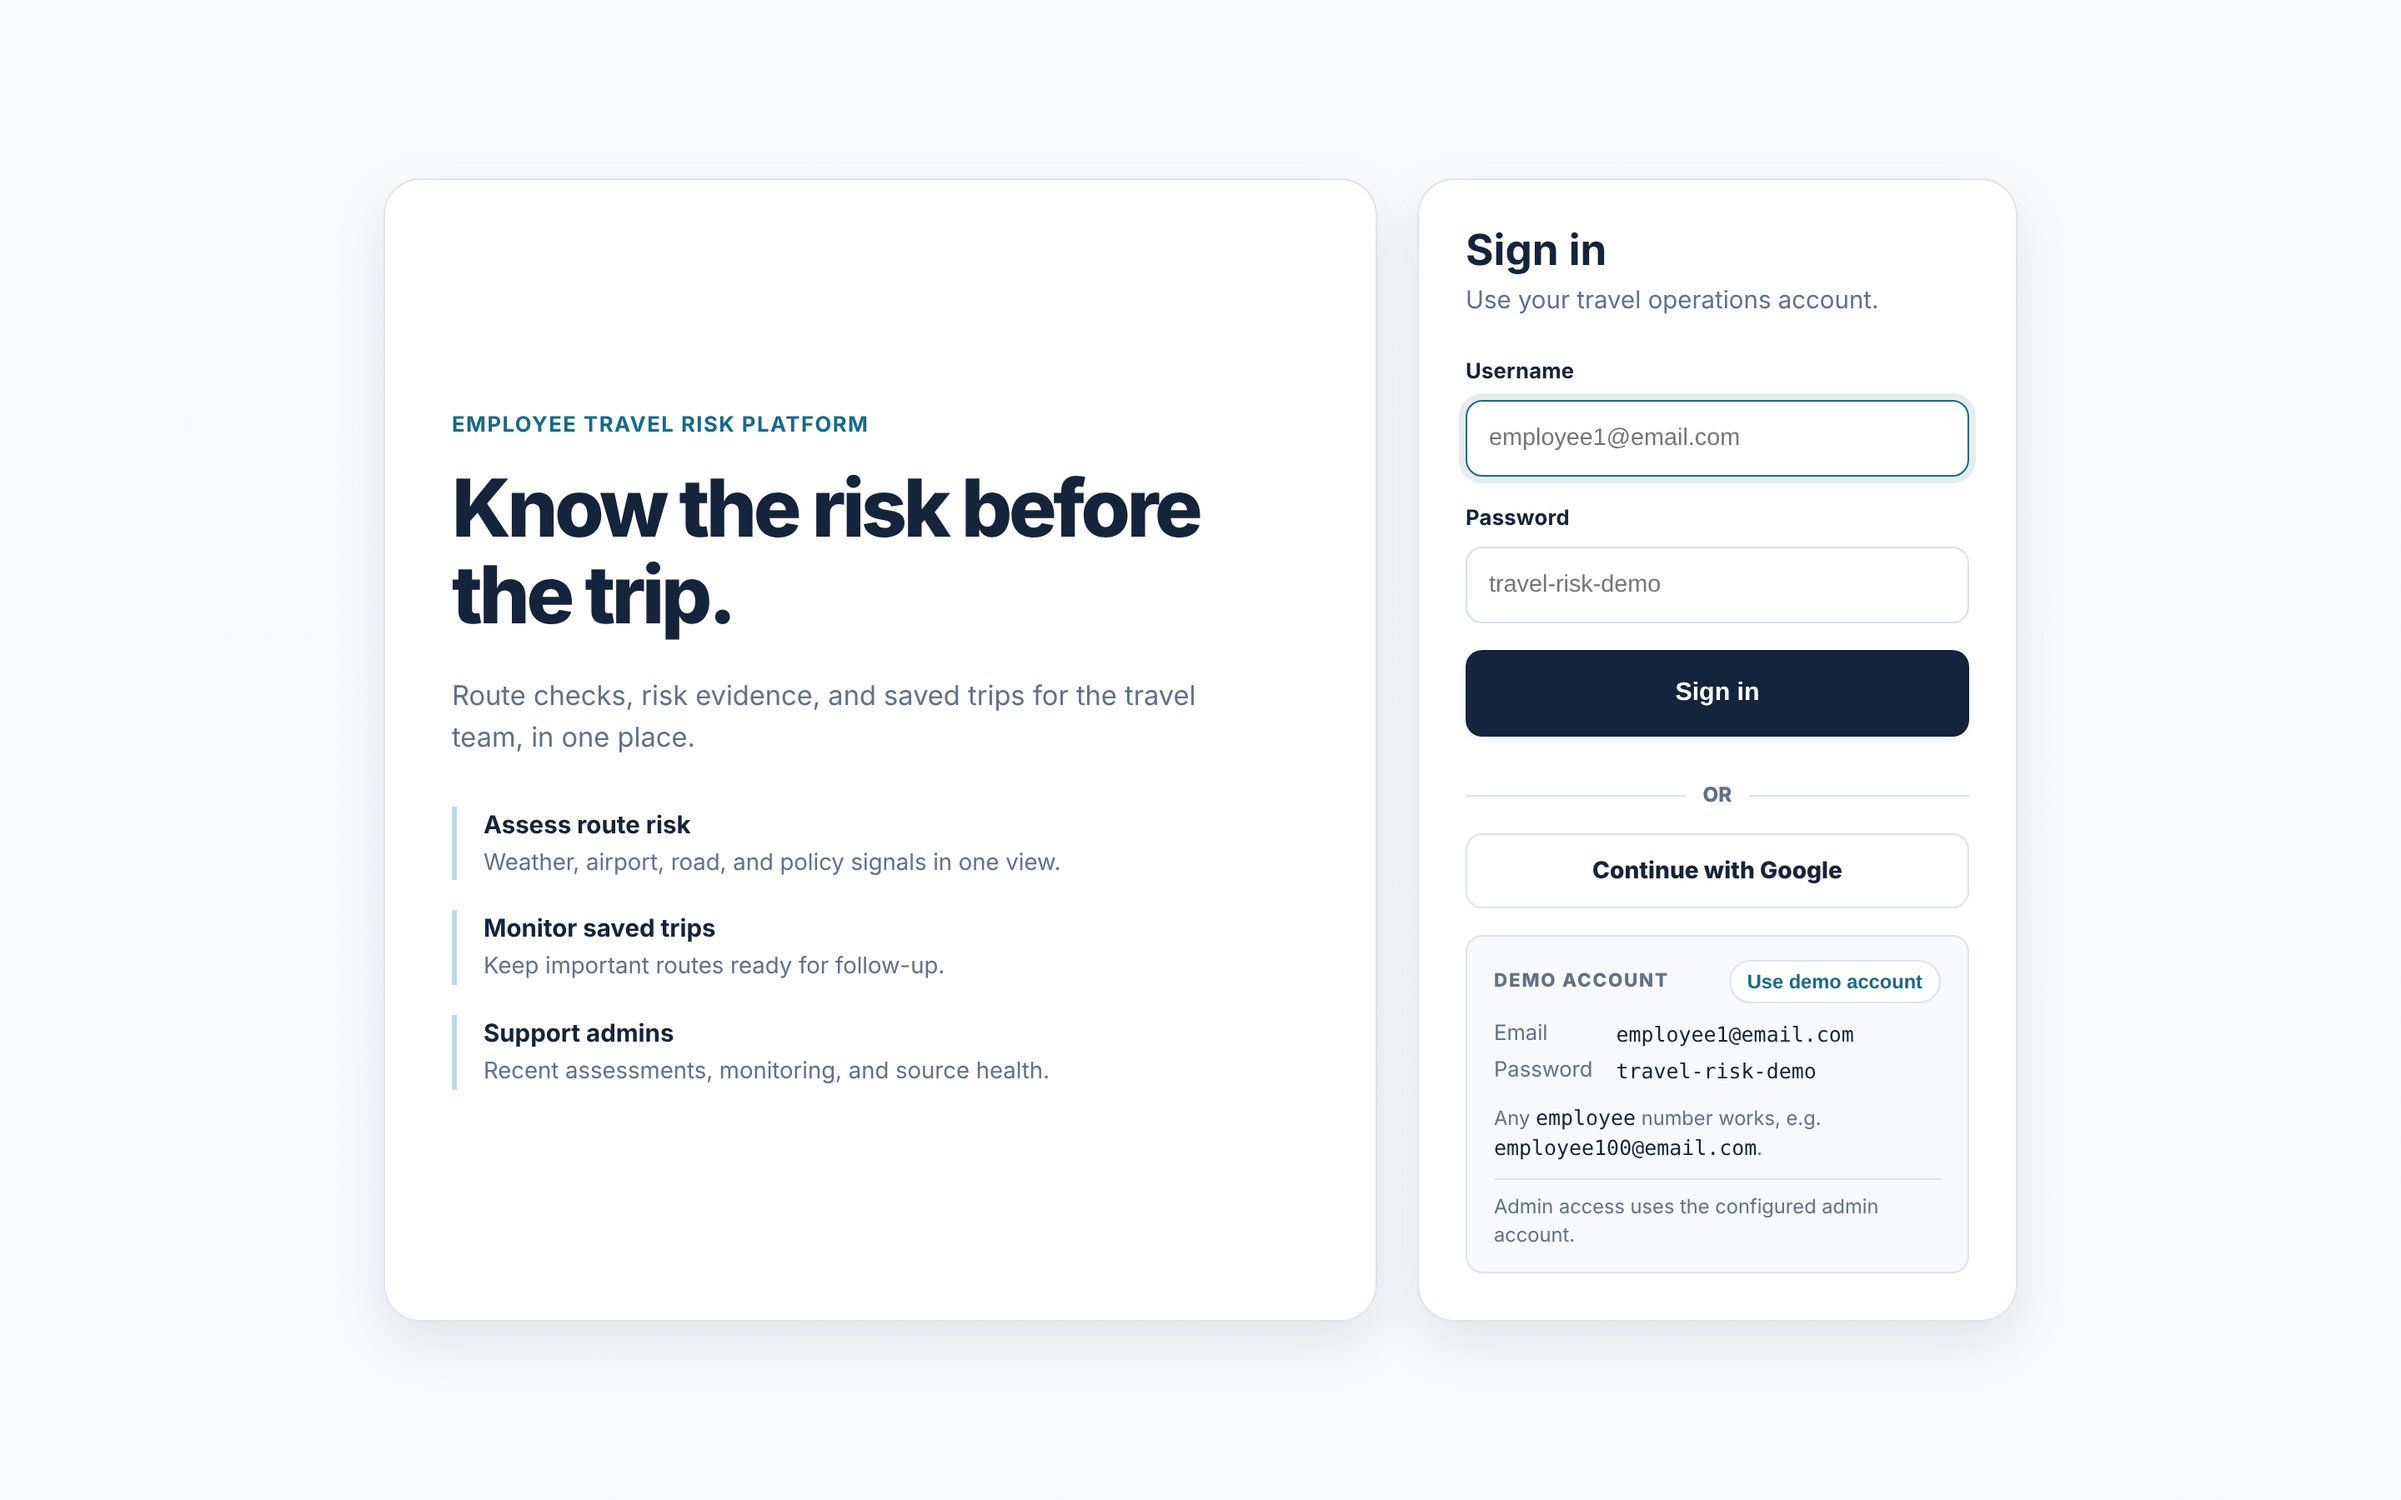
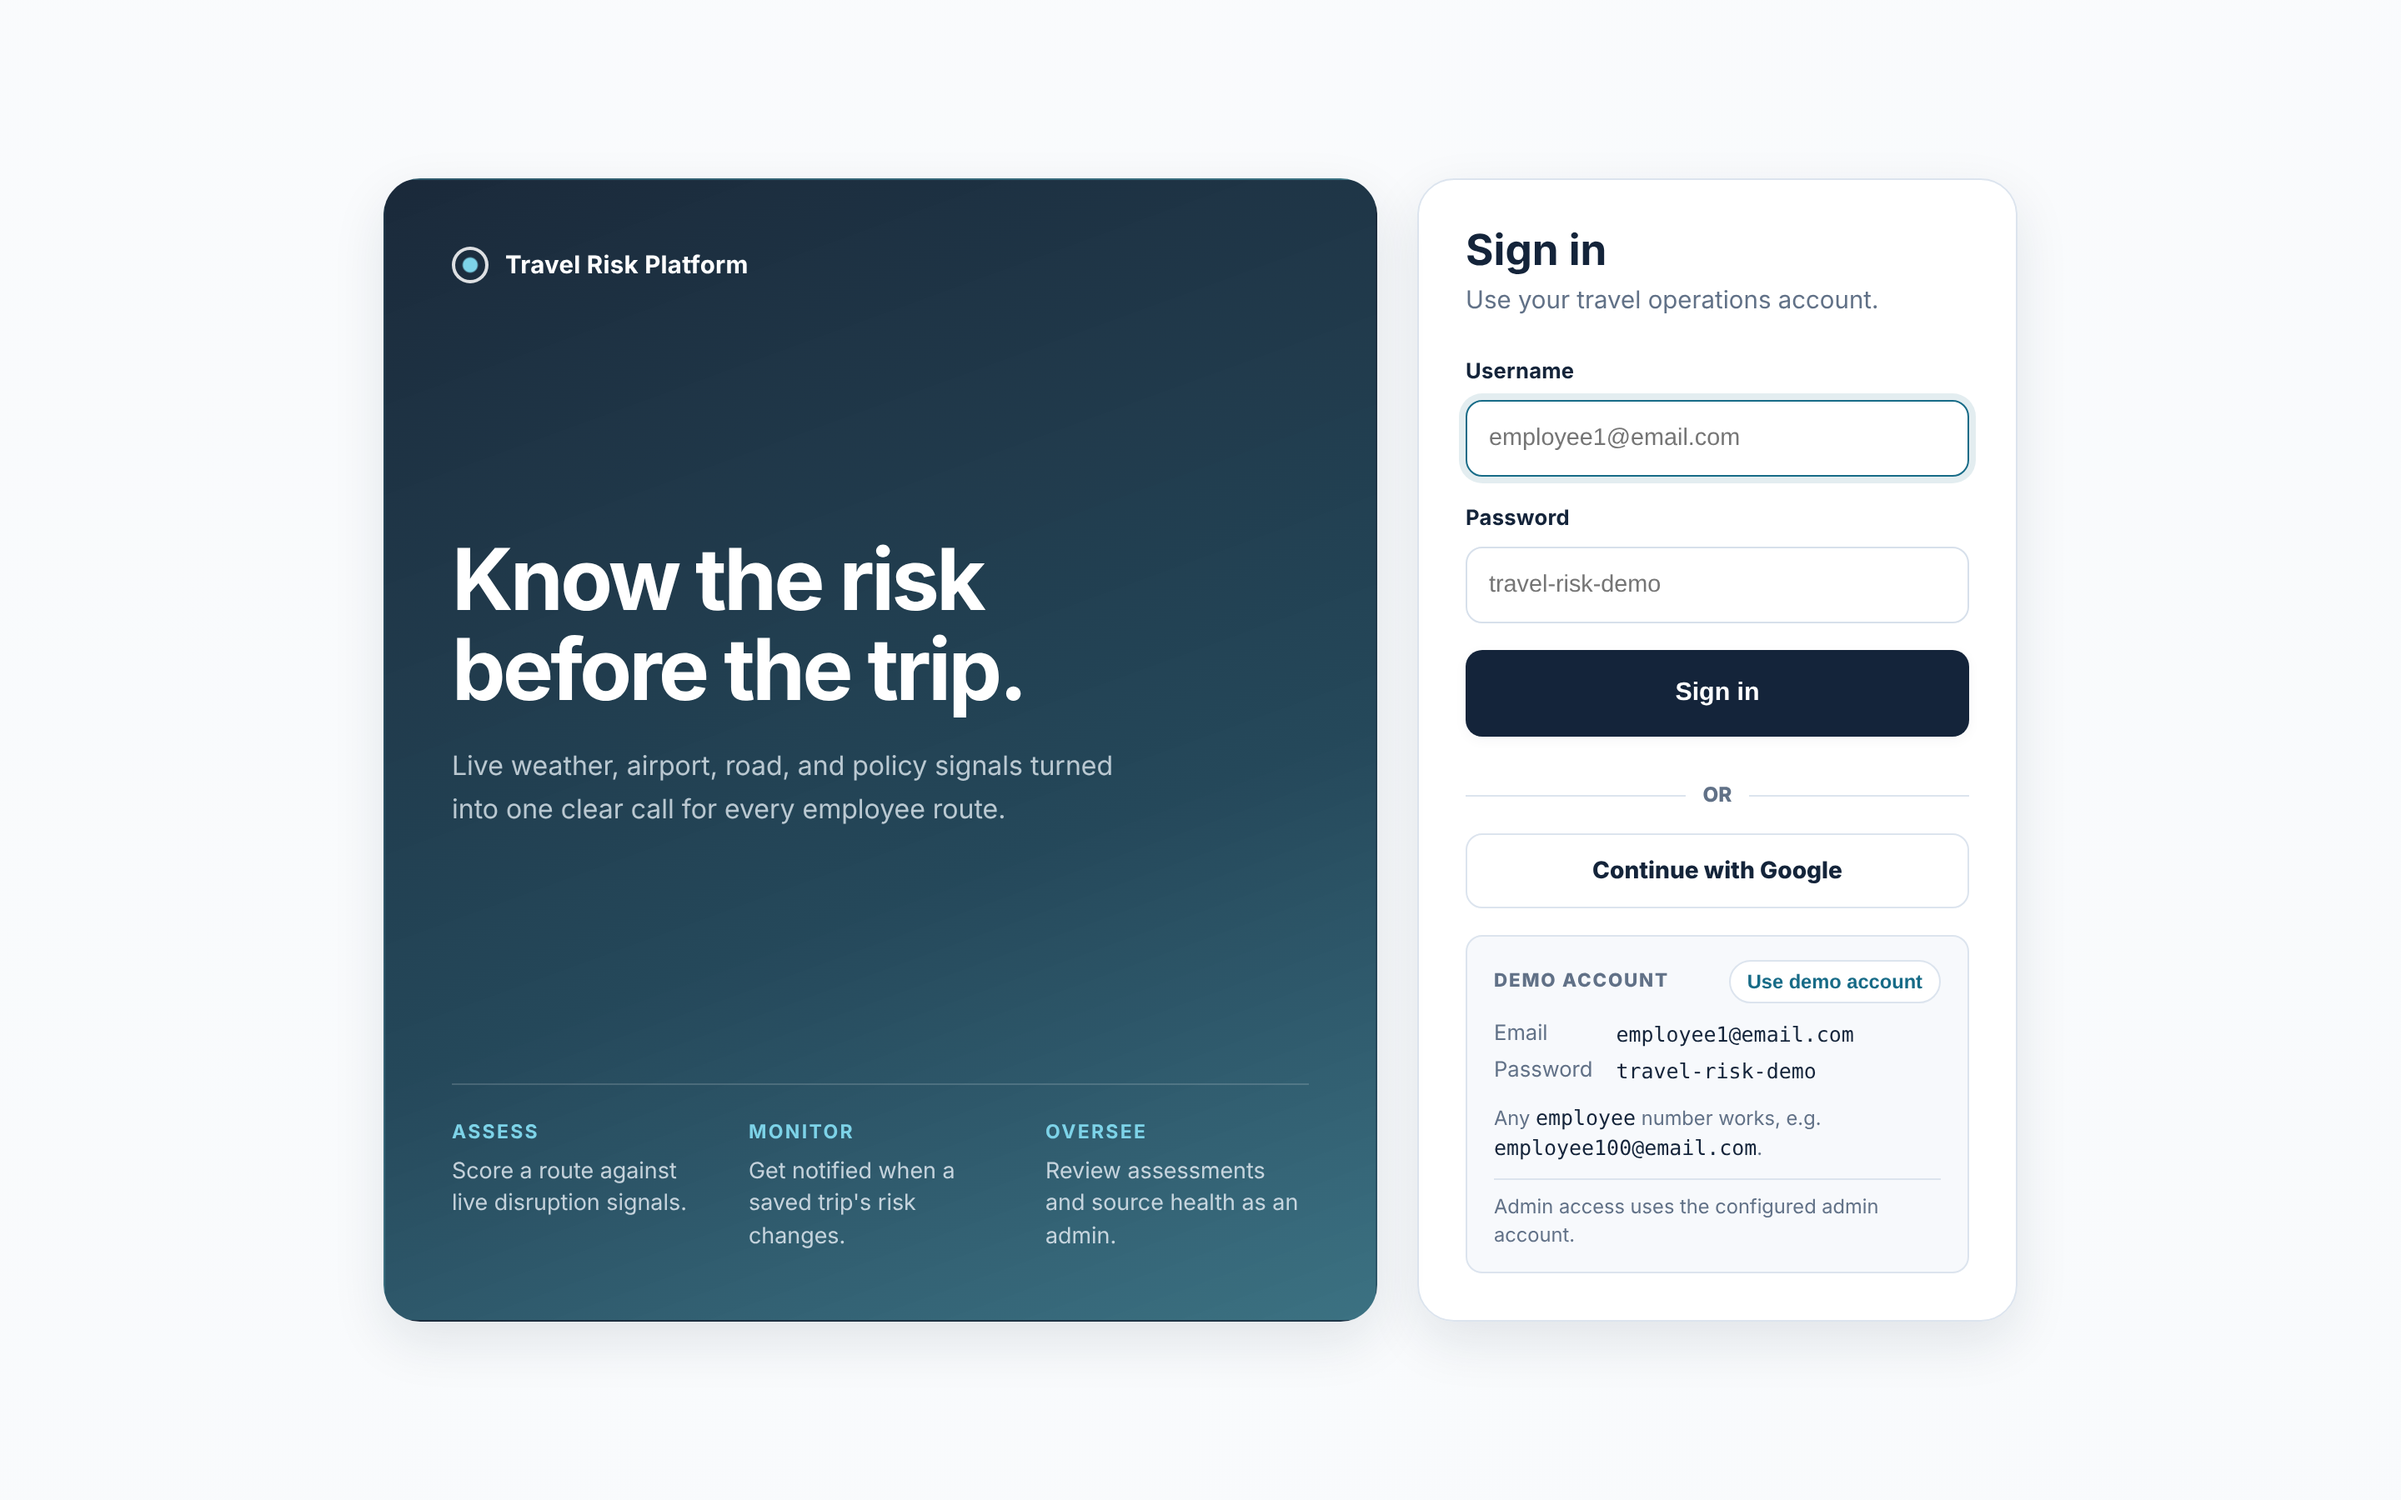
Give the login intro card a darker, more polished look
Navy gradient panel with a brand mark, a white headline, a short
lede, and a three-column feature row along the bottom. Refresh the
README login screenshot.

Claude-Session: https://claude.ai/code/session_01SVyUdMpNFU9eprA4gDo3ue

diff --git a/src/main/resources/static/styles.css b/src/main/resources/static/styles.css
@@ -109,41 +109,66 @@ body {
 }
 
 .login-hero {
+    position: relative;
     display: flex;
     flex-direction: column;
-    justify-content: center;
+    justify-content: space-between;
+    gap: 40px;
+    min-height: 560px;
     padding: 40px;
+    overflow: hidden;
+    border-color: transparent;
+    background:
+        linear-gradient(160deg, rgba(12, 28, 46, 0.94) 0%, rgba(14, 52, 72, 0.9) 60%, rgba(18, 84, 104, 0.82) 100%),
+        url("https://images.unsplash.com/photo-1436491865332-7a61a109cc05?auto=format&fit=crop&w=1400&q=80") center / cover;
+    color: #e6eef5;
+}
+
+.login-brand {
+    display: flex;
+    align-items: center;
+    gap: 10px;
+    margin: 0;
+    color: #ffffff;
+    font-size: 0.92rem;
+    font-weight: 700;
+    letter-spacing: 0.01em;
+}
+
+.login-brand-mark {
+    width: 22px;
+    height: 22px;
+    border: 2px solid rgba(255, 255, 255, 0.85);
+    border-radius: 50%;
+    background: radial-gradient(circle, #7dd3e8 0 4px, transparent 5px);
 }
 
 .login-hero h1 {
-    max-width: 520px;
-    margin-top: 8px;
-    font-size: clamp(2.2rem, 4.2vw, 3rem);
-    line-height: 1.08;
-}
-
-.login-hero .eyebrow {
-    font-size: 0.8rem;
+    max-width: 480px;
+    margin: 0;
+    color: #ffffff;
+    font-size: clamp(2.3rem, 4.4vw, 3.2rem);
+    font-weight: 700;
+    line-height: 1.06;
+    letter-spacing: -0.035em;
 }
 
 .login-hero .lede {
-    max-width: 460px;
-    margin: 14px 0 0;
-    font-size: 1.02rem;
-    line-height: 1.55;
+    max-width: 420px;
+    margin: 18px 0 0;
+    color: rgba(230, 238, 245, 0.78);
+    font-size: 1rem;
+    line-height: 1.6;
 }
 
 .login-value-list {
     display: grid;
-    gap: 18px;
-    margin: 28px 0 0;
-    padding: 0;
+    grid-template-columns: repeat(3, minmax(0, 1fr));
+    gap: 20px;
+    margin: 0;
+    padding: 20px 0 0;
+    border-top: 1px solid rgba(255, 255, 255, 0.16);
     list-style: none;
-}
-
-.login-value-list li {
-    padding-left: 16px;
-    border-left: 3px solid var(--risk-info-border);
 }
 
 .login-value-list strong,
@@ -152,14 +177,18 @@ body {
 }
 
 .login-value-list strong {
-    color: var(--text-main);
-    font-size: 0.92rem;
+    color: #7dd3e8;
+    font-size: 0.72rem;
+    font-weight: 700;
+    letter-spacing: 0.1em;
+    text-transform: uppercase;
 }
 
 .login-value-list span {
-    margin-top: 2px;
-    color: var(--text-muted);
-    font-size: 0.86rem;
+    margin-top: 6px;
+    color: rgba(230, 238, 245, 0.82);
+    font-size: 0.84rem;
+    line-height: 1.45;
 }
 
 .login-panel {
@@ -383,7 +412,13 @@ body {
     }
 
     .login-hero {
+        min-height: 0;
         padding: 28px;
+    }
+
+    .login-value-list {
+        grid-template-columns: 1fr;
+        gap: 14px;
     }
 
     .login-panel {

diff --git a/src/main/resources/static/login.html b/src/main/resources/static/login.html
@@ -9,15 +9,19 @@
 <body class="login-page">
 <main class="login-shell">
   <section class="login-hero">
-    <p class="eyebrow">Employee Travel Risk Platform</p>
-    <h1>Know the risk before the trip.</h1>
-    <p class="lede">
-      Route checks, risk evidence, and saved trips for the travel team, in one place.
-    </p>
+    <p class="login-brand"><span class="login-brand-mark" aria-hidden="true"></span>Travel Risk Platform</p>
+
+    <div class="login-hero-body">
+      <h1>Know the risk before the trip.</h1>
+      <p class="lede">
+        Live weather, airport, road, and policy signals turned into one clear call for every employee route.
+      </p>
+    </div>
+
     <ul class="login-value-list" aria-label="Platform capabilities">
-      <li><strong>Assess route risk</strong><span>Weather, airport, road, and policy signals in one view.</span></li>
-      <li><strong>Monitor saved trips</strong><span>Keep important routes ready for follow-up.</span></li>
-      <li><strong>Support admins</strong><span>Recent assessments, monitoring, and source health.</span></li>
+      <li><strong>Assess</strong><span>Score a route against live disruption signals.</span></li>
+      <li><strong>Monitor</strong><span>Get notified when a saved trip's risk changes.</span></li>
+      <li><strong>Oversee</strong><span>Review assessments and source health as an admin.</span></li>
     </ul>
   </section>
 
